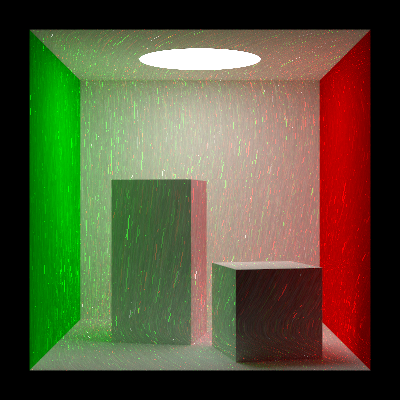
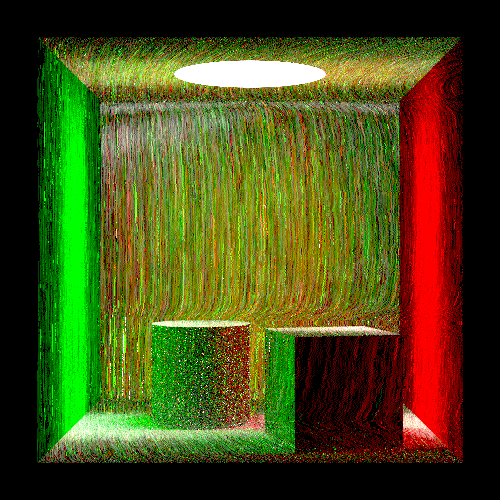
实现柱面

diff --git a/SchwiPT/core/scene.h b/SchwiPT/core/scene.h
@@ -166,9 +166,9 @@ namespace schwi {
 			ShapeSPtr back = std::make_shared<Rectangle>(Vector2d(x, z), new Frame{ {1,0,0},{0,1,0},{0,0,1},{0,0,-y} });
 			ShapeSPtr box = std::make_shared<Box>(Vector3d(10, 10, 10), new Frame{ {4,0,-1},{0,1,0},{1,0,4},{x - 20,-y + 10,z - 20} });
 			ShapeSPtr box2 = std::make_shared<Box>(Vector3d(10, 10, 20), new Frame{ {5,0,1},{0,1,0},{-1,0,5},{-x + 25,-y + 20,-z + 30} });
-			ShapeSPtr cy = std::make_shared<Cylinder>(10, 40, new Frame{ {1,0,0},{0,0,-1},{0,1,0},{-x + 25,-y + 20,-z + 30} });
-			ShapeSPtr cover = std::make_shared<Disk>(10, new Frame{ {1,0,0},{0,0,-1},{0,1,0},{-x + 25,-y + 40,-z + 30} });
-			ShapeList shapeList{ disk,up,down,left,right,back,box,box2,cy,cover };
+			ShapeSPtr cy = std::make_shared<Cylinder>(10, 20, new Frame{ {0,0,1},{1,0,0},{0,1,0},{-x +25,-y + 10,-z + 30} });
+			ShapeSPtr cover = std::make_shared<Disk>(10, new Frame{ {0,0,1},{1,0,0},{0,1,0},{-x + 25,-y + 20,-z + 30} });
+			ShapeList shapeList{ disk,up,down,left,right,back,box,box2,cy,cover};
 
 
 			TextureSPtr whiteConst = std::make_shared<ConstantTexture<Color>>(Color(1., 1., 1.));
@@ -183,14 +183,14 @@ namespace schwi {
 			MaterialSPtr black = std::make_shared<Matte>(blackConst);
 			MaterialList materialList{ white,red,green,black };
 
-			std::shared_ptr<AreaLight> disk_light = std::make_shared<AreaLight>(disk->frame->position(),1,Color(5, 5, 5), disk.get());
+			std::shared_ptr<AreaLight> disk_light = std::make_shared<AreaLight>(disk->frame->position(), 1, Color(5, 5, 5), disk.get());
 			LightList lightList{ disk_light };
 
 			PrimitiveList primitiveList{
 				{box.get(),white.get(),nullptr},
-				//{cy.get(),red.get(),nullptr},
-				//{cover.get(),red.get(),nullptr},
-				{box2.get(),white.get(),nullptr},
+				{cy.get(),white.get(),nullptr},
+				{cover.get(),white.get(),nullptr},
+				//{box2.get(),white.get(),nullptr},
 				{up.get(),white.get(),nullptr},
 				{down.get(),white.get(),nullptr},
 				{back.get(),white.get(),nullptr},

diff --git a/SchwiPT/shapes/cylinder.h b/SchwiPT/shapes/cylinder.h
@@ -20,15 +20,15 @@ namespace schwi {
 			Point3d o = ray.origin();
 			Vector3d d = ray.direction();
 
-			double a = 1 / (d.x * d.x + d.y + d.y);
+			double a = 1/(d.x * d.x + d.y * d.y);
 			double b = (d.x * o.x + d.y * o.y) * a;
-			double c = (o.x * o.x + o.y * o.y - radius * radius) * a;
+			double c = (o.x * o.x + o.y * o.y - radius * radius)*a;
 
 			double discr = b * b - c;
 			if (discr < 0)return false;
 			double sqrt_discr = std::sqrt(discr);
-			double t0 = -b - sqrt_discr;
-			double t1 = -b + sqrt_discr;
+			double t0 =-b - sqrt_discr;
+			double t1 =-b + sqrt_discr;
 			if (t0 > ray.distance() || t1 <= 0)return false;
 
 			double t = t0;
@@ -47,7 +47,6 @@ namespace schwi {
 			}
 			r.set_distance(t);
 			Normal3d normal = Normal3d(p.x, p.y, 0).Normalize();
-			normal = Dot(normal, ray.direction()) > 0 ? -normal : normal;
 
 			double u = (std::atan2(normal.y, normal.x) + Pi) * Inv2Pi;
 			double v = std::abs(p.z) * 2 / height;
@@ -57,12 +56,12 @@ namespace schwi {
 				frame->ToWorld(normal),
 				-r.direction(),
 				Point2d(u, v));
-			//std::cout << t << std::endl;
+			//std::cerr << t <<std::endl;
 			return true;
 		}
 
 		virtual Bounds3d WorldBound() const override {
-			auto position = frame->position();
+			const auto& position = frame->position();
 			auto half = Vector3d(radius, radius, height / 2);
 			return Bounds3d(position - half, position + half);
 		}

diff --git a/SchwiPT/core/primitive.h b/SchwiPT/core/primitive.h
@@ -9,13 +9,19 @@
 namespace schwi {
 	struct Primitive {
 		const Shape* shape;
-		const Material* material;
+		const Material* out;
 		const AreaLight* areaLight;
+		//const Material* in=nullptr;
 
 		bool Intersect(Ray& ray, Intersection* isect)const {
 			bool hit = shape->Intersect(ray, isect);
 			if (hit) {
-				isect->bsdfPtr = material->Scattering(*isect);
+				isect->bsdfPtr = out->Scattering(*isect);
+				//isect->bsdfPtr = Dot(isect->wo,isect->normal)>0?
+				//	out->Scattering(*isect):
+				//	in?
+				//	in->Scattering(*isect):
+				//	out->Scattering(*isect);
 				isect->emission = areaLight ?
 					areaLight->Le(*isect, isect->wo) :
 					Color();

diff --git a/SchwiPT/core/frame.h b/SchwiPT/core/frame.h
@@ -48,11 +48,11 @@ namespace schwi {
 		}
 
 		Ray ToLocal(const Ray& ray)const {
-			return Ray(ToLocal(ray.origin()), ToLocal(ray.direction()), ray.distance());
+			return Ray(ToLocal(ray.origin()), ToLocal(ray.direction()).Normalize(), ray.distance());
 		}
 
 		Ray ToWorld(const Ray& ray)const {
-			return Ray(ToWorld(ray.origin()), ToWorld(ray.direction()), ray.distance());
+			return Ray(ToWorld(ray.origin()), ToWorld(ray.direction()).Normalize(), ray.distance());
 		}
 
 		const Vector3d& binormal()const { return s; }

diff --git a/SchwiPT/shapes/sphere.h b/SchwiPT/shapes/sphere.h
@@ -72,7 +72,7 @@ namespace schwi {
 
 			*pdf = 1 / Area();
 
-			return std::move(isect);
+			return isect;
 		}
 
 		Intersection SampleDirection(
@@ -92,7 +92,7 @@ namespace schwi {
 				if (std::isinf(*pdf))
 					*pdf = 0.;
 
-				return std::move(light_isect);
+				return light_isect;
 			}
 
 			double dist = Distance(isect.position, center);
@@ -129,7 +129,7 @@ namespace schwi {
 
 			*pdf = 1 / (2 * Pi * (1 - cos_theta_max));
 
-			return std::move(light_isect);
+			return light_isect;
 		}
 
 		double PdfDirection(

diff --git a/SchwiPT/shapes/disk.h b/SchwiPT/shapes/disk.h
@@ -37,7 +37,7 @@ namespace schwi {
 		}
 
 		virtual Bounds3d WorldBound() const override {
-			auto position = frame->position();
+			const auto& position = frame->position();
 			auto offset = frame->binormal() * radius + frame->tangent() * radius;
 			return Bounds3d(position - offset, position + offset);
 		}
@@ -58,7 +58,7 @@ namespace schwi {
 			isect.normal = Normal3d(frame->normal());
 
 			*pdf = 1 / Area();
-			return std::move(isect);
+			return isect;
 		}
 	};
 }

diff --git a/SchwiPT/shapes/rectangle.h b/SchwiPT/shapes/rectangle.h
@@ -57,7 +57,7 @@ namespace schwi {
 			isect.normal = Normal3d(frame->normal());
 
 			*pdf = 1 / Area();
-			return std::move(isect);
+			return isect;
 		}
 	};
 
@@ -97,7 +97,7 @@ namespace schwi {
 		}
 
 		virtual Bounds3d WorldBound() const override {
-			auto position = frame->position();
+			const auto& position = frame->position();
 			return Bounds3d(position - p, position + p);
 		}
 

diff --git a/SchwiPT/integrators/integrator.h b/SchwiPT/integrators/integrator.h
@@ -32,8 +32,9 @@ namespace schwi {
 						auto cameraSample = sampler->GetCameraSample(Point2d(x, y));
 						auto ray = camera.GenerateRay(cameraSample);
 
-						L = L + Li(ray, scene, *sampler) / sampler->GetSPP();
+						L = L + Li(ray, scene, *sampler);
 					} while (sampler->NextSample());
+					L = L / sampler->GetSPP();
 					img.setColor(x, y, ToByte(L));
 				}
 				finished++;

diff --git a/SchwiPT/core/main.cpp b/SchwiPT/core/main.cpp
@@ -12,10 +12,10 @@
 using namespace schwi;
 using namespace std;
 
-constexpr int width = 400;
-constexpr int height = 400;
+constexpr int width = 500;
+constexpr int height = 500;
 
-constexpr int spp = 10000;
+constexpr int spp = 100;
 constexpr int maxDepth = 10;
 
 int main() {

diff --git a/SchwiPT/samplers/sampler.h b/SchwiPT/samplers/sampler.h
@@ -67,7 +67,6 @@ namespace schwi {
 	}
 
 	inline Vector3d SampleHemisphereCosine(const Vector2d& random) {
-		//TODO: Uniform|Concentric
 		Point2d d = SampleDiskUniform(random);
 		double z = std::sqrt(std::max(0., 1 - d.x * d.x - d.y * d.y));
 		return Vector3d(d.x, d.y, z);

diff --git a/SchwiPT/shapes/triangle.h b/SchwiPT/shapes/triangle.h
@@ -128,7 +128,7 @@ namespace schwi {
 			isect.normal = Normal3d(frame->normal());
 
 			*pdf = 1 / Area();
-			return std::move(isect);
+			return isect;
 		}
 	};
 

diff --git a/SchwiPT/shapes/shape.h b/SchwiPT/shapes/shape.h
@@ -46,7 +46,7 @@ namespace schwi {
 					*out_pdf_p = 0;
 			}
 
-			return std::move(light_isect);
+			return light_isect;
 		}
 
 		virtual double PdfDirection(
